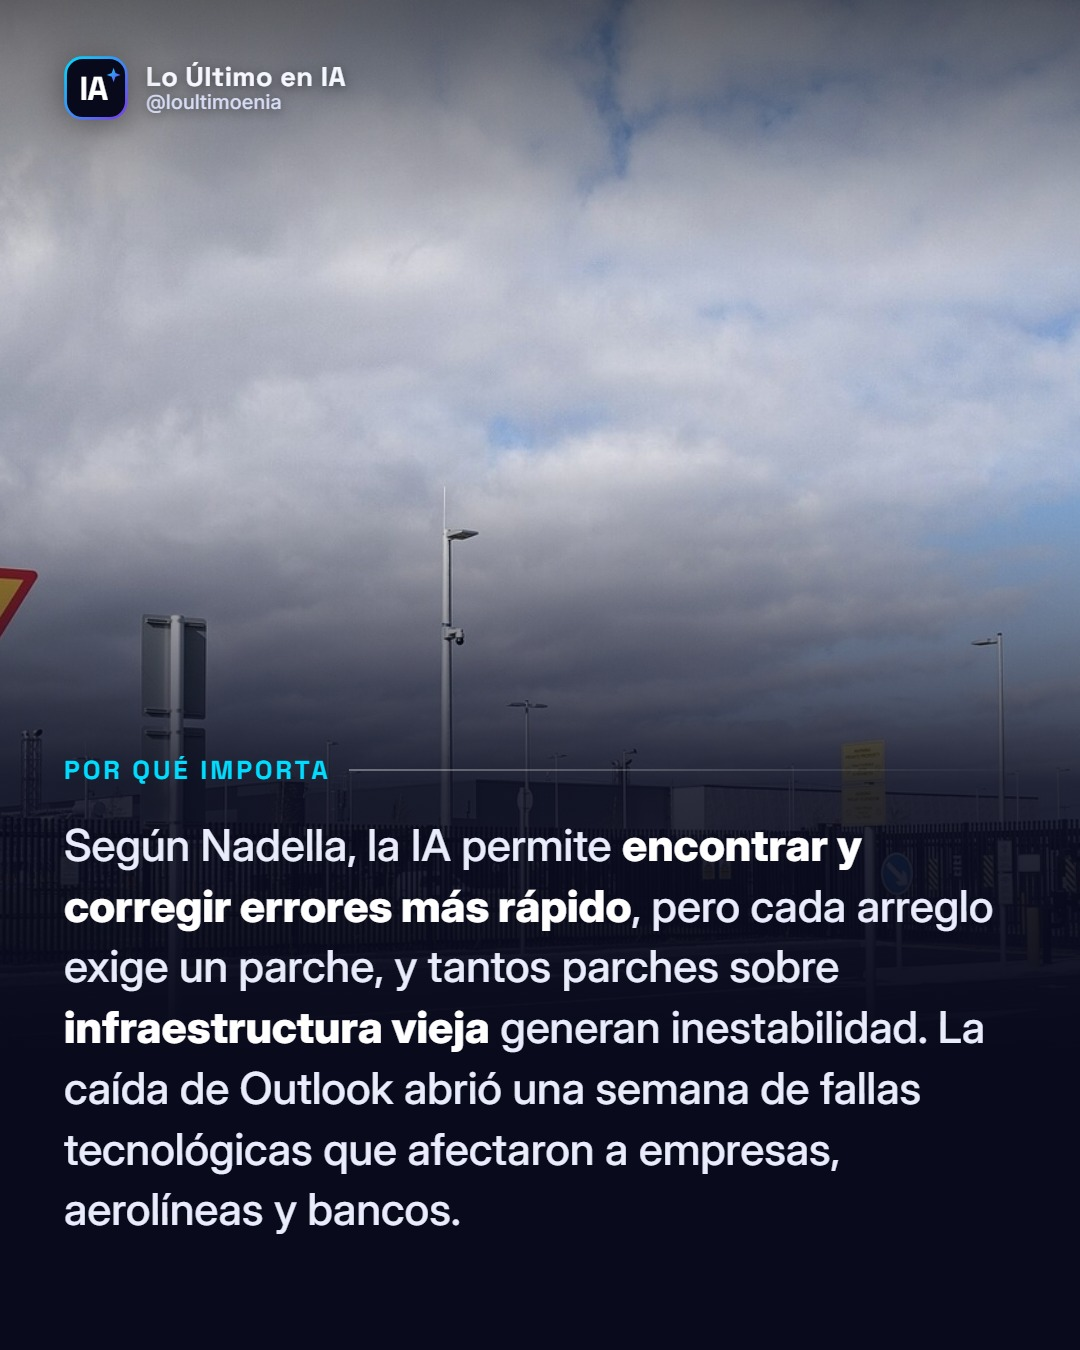
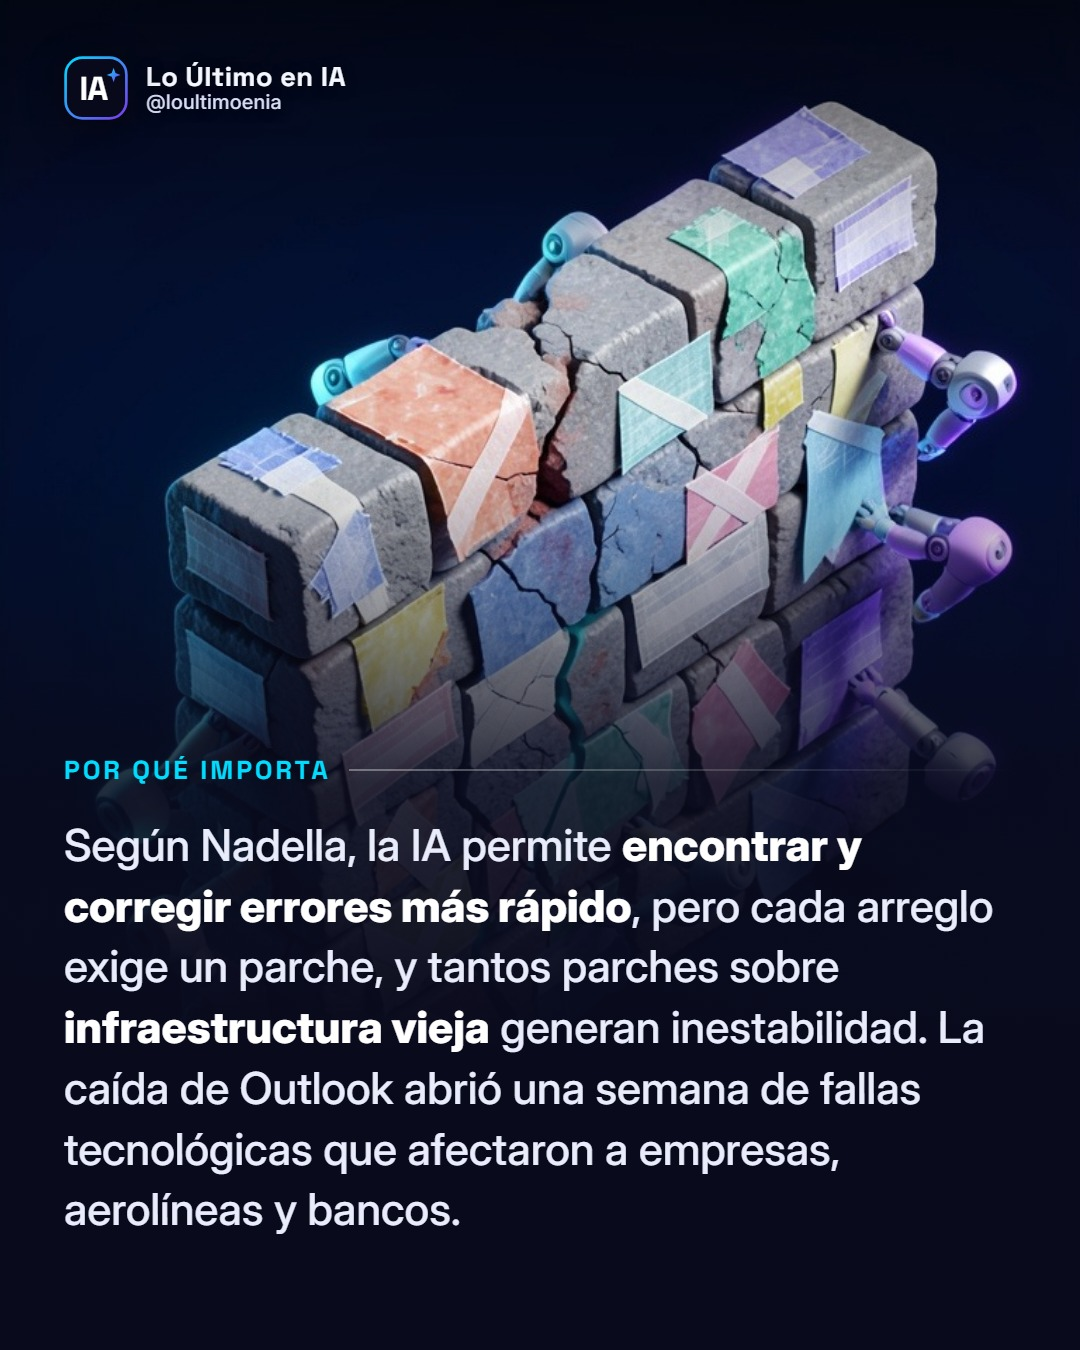
Nuevo post 20261118-2115

diff --git a/posts/20261118-2115/informe_agentes.md b/posts/20261118-2115/informe_agentes.md
@@ -8,3 +8,9 @@
 - **verificador** — CAMBIOS, 8/10, confianza media. "Pudo hacer más para evitar" en vez de "se pudo evitar"; sin "mucho" más rápido; las barreras (no las pruebas) evitaban la caída global; fuente solo CNBC. Todo aplicado.
 - **editor-estilo** — CAMBIOS, 7/10. Titular con 4 palabras resaltadas (no 5), slide 1 a 45 palabras, caption recortado a 149 y gancho del Reel a 13. Aplicado. "Aerolíneas y bancos" y "empresas de EE.UU." sí están en la nota de CNBC.
 - **cazador-videos** — 1 clip: Nadella en Davos 2016 (World Economic Forum, Wikimedia Commons, CC BY 3.0); se ve solo a él. La entrevista de CNBC tiene derechos; no sumé la línea 🎬 para no pasar las 150 palabras del caption.
+- **productor** — FORMATO: CARRUSEL. Es una declaración corporativa y el único clip es de archivo (Davos 2016), sin relación con Outlook. Pide noclip.
+- **editor-video** — OK, 7/10. El Reel es técnicamente correcto, pero el clip de archivo se repite en las 3 escenas.
+- **director-arte** — CAMBIOS, 6/10. La foto del slide 3 era cielo y una valla, sin datacenter. Se reemplazó por la ilustración 3D del muro con parches (photos[2] = "").
+
+**Decisión final:** CARRUSEL. Saqué el clip con noclip (el caption queda sin crédito de video) y lo rearmé una vez.
+**Etiqueta de IA:** sí, el slide 3 es una ilustración generada con IA. Las fotos de los slides 1 y 2 son reales (Wikimedia Commons).
